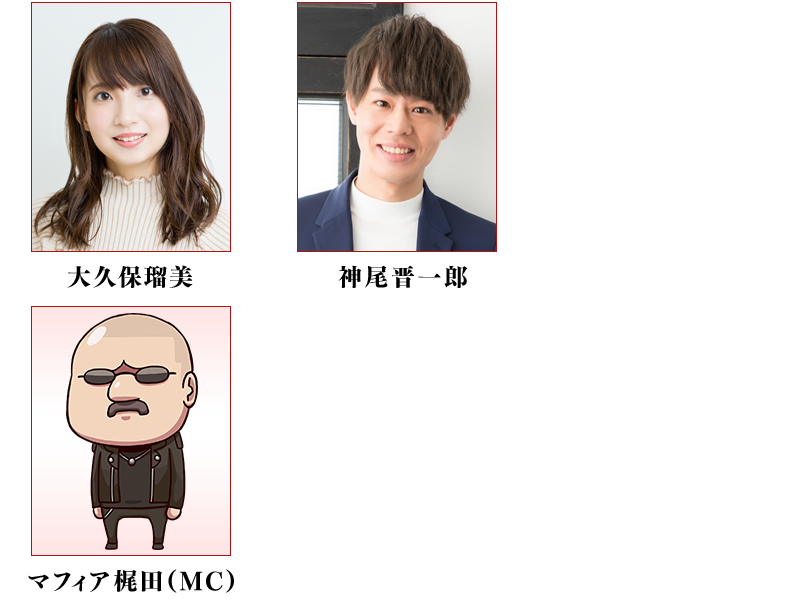
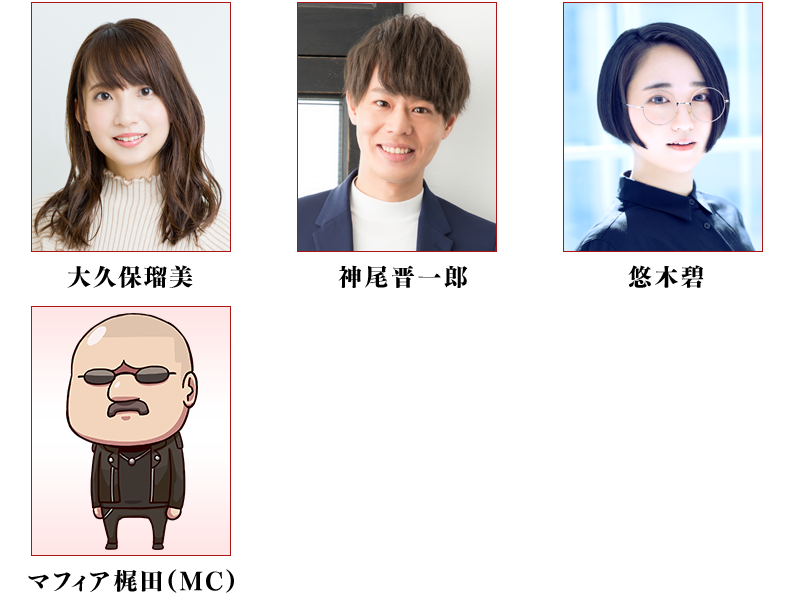
日版御主任務(5/30～6/5)

Changed region(s): [[0.6875, 0.0, 0.9688, 0.48]]

diff --git a/index.html b/index.html
@@ -69,23 +69,23 @@ $(function(){
 </p></dd></dl>
 
 <dl class="accordion"><dt class="act">
-<h1 class="headline5"><dl><dt class="date">★☆★</dt><dd>本週日版御主任務(5/16～5/22)<span class="arrowAC">&nbsp;</span></dd></dl></h1>
+<h1 class="headline5"><dl><dt class="date">★☆★</dt><dd>本週日版御主任務(5/30～6/5)<span class="arrowAC">&nbsp;</span></dd></dl></h1>
 </dt><dd class="acd"><p>
 <table class="tablesorter" style="width:95%">
 <tr><th>任務</th><th>獎勵</th></tr>
 <tr><td>No.1：通過所有本週的御主任務
 </td><td><div class="itemST" style="background-image: url('common/images/icon/items/16.png')" title="聖晶片">3</div></td></tr>
-<tr><td>No.2：擊倒3位持有『秩序』屬性的從者(在戰鬥中被召喚的敵人除外)
+<tr><td>No.2：擊倒10位從者(在戰鬥中被召喚的敵人除外)
 </td><td><div class="itemST" style="background-image: url('common/images/icon/items/16.png')" title="聖晶片">3</div></td></tr>
-<tr><td>No.3：擊倒3位持有『混沌』屬性的從者(在戰鬥中被召喚的敵人除外)
+<tr><td>No.3：擊倒任15名『Saber』『Caster』『Assassin』職階的敵人(在戰鬥中被召喚的敵人除外)
 </td><td><div class="itemST" style="background-image: url('common/images/icon/items/16.png')" title="聖晶片">3</div></td></tr>
-<tr><td>No.4：擊倒15名持有『猛獸』特性的敵人(在戰鬥中被召喚的敵人除外)
+<tr><td>No.4：擊倒任15名『Archer』『Rider』職階的敵人(在戰鬥中被召喚的敵人除外)
 </td><td><div class="itemST" style="background-image: url('common/images/icon/items/16.png')" title="聖晶片">3</div></td></tr>
-<tr><td>No.5：擊倒15名持有『魔性』特性的敵人(在戰鬥中被召喚的敵人除外)
+<tr><td>No.5：擊倒任15名『Lancer』『Berserker』職階的敵人(在戰鬥中被召喚的敵人除外)
 </td><td><div class="itemST" style="background-image: url('common/images/icon/items/16.png')" title="聖晶片">3</div></td></tr>
-<tr><td>No.6：靠戰利品獲得任15張「叡智的業火」「睿智的猛火」「睿智的大火」「睿智的燈火」「睿智的種火」
+<tr><td>No.6：靠戰利品獲得任2個「輝石」「魔石」「秘石」「銀像」「金棋」
 </td><td><div class="itemST" style="background-image: url('common/images/icon/items/16.png')" title="聖晶片">3</div></td></tr>
-<tr><td>No.7：靠戰利品獲得任30張「叡智的業火」「睿智的猛火」「睿智的大火」「睿智的燈火」「睿智的種火」
+<tr><td>No.7：靠戰利品獲得任4個「輝石」「魔石」「秘石」「銀像」「金棋」
 </td><td><div class="itemST" style="background-image: url('common/images/icon/items/16.png')" title="聖晶片">3</div></td></tr>
 </table>
 </p></dd></dl>
@@ -192,6 +192,10 @@ $(function(){
 <a href="gacha_2500man_pu2.html"><img src="common/images/banners/terminal/terminal_banner_80723.png" width=400 /></a>
 <div class="paragraph_details">
 <table class="noborder nopadding">
+<tr><td colspan=2>
+・<a href="news_220531.html">關於能用6月交換券(2022)交換的道具</a>
+</td><td colspan=2>
+</td></tr>
 <tr><td width=200>
 ・<a href="news_220510.html">5/11維修公告</a>(12:00實施)
 </td><td width=200>
@@ -263,6 +267,10 @@ $(function(){
 <a href="news_220420.html"><img src="common/images/banners/terminal/terminal_banner_80719.png" width=400 /></a>
 <div class="paragraph_details">
 <table class="noborder nopadding">
+<tr><td colspan=2>
+・<a href="news_220430.html">關於能用5月交換券(2022)交換的道具</a>
+</td><td colspan=2>
+</td></tr>
 <tr><td width=200>
 ・<a href="news_220419.html">4/20維修公告</a>(12:00實施)
 </td><td width=200>

diff --git a/news_220430.html b/news_220430.html
@@ -1,0 +1,61 @@
+<!DOCTYPE html PUBLIC "-//W3C//DTD XHTML 1.0 Transitional//EN" "http://www.w3.org/TR/xhtml1/DTD/xhtml1-transitional.dtd">
+<html xmlns="http://www.w3.org/1999/xhtml">
+<head>
+<meta http-equiv="Content-Type" content="text/html; charset=utf-8" />
+<meta name="description" content="Fate/Grand Order台灣中文資料站" />
+<meta name="keywords" content="Fate/Grand Order,FGO,Fate/GO,TYPE-MOON,Fate,Saber,Archer,Lancer,Rider,Caster,Assassin,Berserker,Shielder,Ruler" />
+<title>關於能用5月交換券(2022)交換的道具</title>
+<link rel="icon" href="favicon.ico" type="image/vnd.microsoft.icon">
+<link href="common/css/common.css" rel="stylesheet" type="text/css" />
+<link href="common/css/detail_info.css" rel="stylesheet" type="text/css" />
+<link href="common/css/sidebar.css" rel="stylesheet" type="text/css" />
+<script type="text/javascript" src="common/js/jquery.min.js"></script>
+<script type="text/javascript" src="common/js/sidebar.js"></script>
+<script type="text/javascript" src="common/js/smoothRollOver.js"></script>
+<script type="text/javascript" src="common/js/scrollTop.js"></script>
+<script>
+  (function(i,s,o,g,r,a,m){i['GoogleAnalyticsObject']=r;i[r]=i[r]||function(){
+  (i[r].q=i[r].q||[]).push(arguments)},i[r].l=1*new Date();a=s.createElement(o),
+  m=s.getElementsByTagName(o)[0];a.async=1;a.src=g;m.parentNode.insertBefore(a,m)
+  })(window,document,'script','//www.google-analytics.com/analytics.js','ga');
+
+  ga('create', 'UA-70142247-1', 'auto');
+  ga('require', 'linkid');
+  ga('require', 'displayfeatures');
+  ga('send', 'pageview');
+</script>
+</head>
+<body onload="loadsidebar();">
+<!--二欄橫幅主要區塊開始-->
+<div style='position:relative;'>
+    <!--選單區塊開始-->
+    <div id="div_right_sidebar"></div>
+    <!--選單區塊結束-->
+    <!--主要內容區塊開始-->
+    <div id="div_content"><div class="container">
+<article class="content textsize" style="width:840px">
+<h1 class="headline3"><dl><dt class="date">4/30</dt><dd>關於能用5月交換券(2022)交換的道具</dd></dl></h1>
+<p>告知關於能用連續登入獎勵的5月交換券(2022)交換的道具。</p>
+<p><span class="diamond">◆</span><span class="strong">5月交換券(2022)配發期間</span><span class="diamond">◆</span><br/>
+2022年5月1日(日) 3:00～2022年6月1日(三) 2:59</p>
+<p><span class="diamond">◆</span><span class="strong">5月交換券(2022)的使用・領取期間</span><span class="diamond">◆</span><br/>
+2022年8月31日(三) 22:59<br/>
+<span class="indent">※另外，請注意4月交換券(2022)的使用・領取期間為2022年7月31日(日) 22:59</span></p>
+<p><span class="diamond">◆</span><span class="strong">能交換道具</span><span class="diamond">◆</span><br/>
+・夢幻的鱗粉<br/>
+・禁斷書頁<br/>
+・宵泣之鐵樁</p>
+<p><img alt="交換券" height="300" src="common/images/2022/0430sfjt_qaol/info_image_01.png" width="800"/></p>
+<p><span class="indent">※請注意交換券有使用・領取期間。</span>
+<span class="indent">※能選擇的3種類素材每月替換。</span>
+<span class="indent">※如果持有數張相同月份的「交換券」，可以一起交換。</span>
+<span class="indent">※如果跨月自禮物箱領取前一個月的「交換券」，能獲得的素材會是「交換券」記載月份的對象素材。</span></p>
+</article>
+</div>
+<div id="gotop"><a href="#"><img src="common/images/btn_gotop_off.jpg" width="47" height="47" alt="返回頂端" /></a></div>
+    </div>
+    <!--主要內容區塊結束-->
+</div>
+<!--二欄橫幅主要區塊結束-->
+</body>
+</html>

diff --git a/news_220531.html b/news_220531.html
@@ -1,0 +1,61 @@
+<!DOCTYPE html PUBLIC "-//W3C//DTD XHTML 1.0 Transitional//EN" "http://www.w3.org/TR/xhtml1/DTD/xhtml1-transitional.dtd">
+<html xmlns="http://www.w3.org/1999/xhtml">
+<head>
+<meta http-equiv="Content-Type" content="text/html; charset=utf-8" />
+<meta name="description" content="Fate/Grand Order台灣中文資料站" />
+<meta name="keywords" content="Fate/Grand Order,FGO,Fate/GO,TYPE-MOON,Fate,Saber,Archer,Lancer,Rider,Caster,Assassin,Berserker,Shielder,Ruler" />
+<title>關於能用6月交換券(2022)交換的道具</title>
+<link rel="icon" href="favicon.ico" type="image/vnd.microsoft.icon">
+<link href="common/css/common.css" rel="stylesheet" type="text/css" />
+<link href="common/css/detail_info.css" rel="stylesheet" type="text/css" />
+<link href="common/css/sidebar.css" rel="stylesheet" type="text/css" />
+<script type="text/javascript" src="common/js/jquery.min.js"></script>
+<script type="text/javascript" src="common/js/sidebar.js"></script>
+<script type="text/javascript" src="common/js/smoothRollOver.js"></script>
+<script type="text/javascript" src="common/js/scrollTop.js"></script>
+<script>
+  (function(i,s,o,g,r,a,m){i['GoogleAnalyticsObject']=r;i[r]=i[r]||function(){
+  (i[r].q=i[r].q||[]).push(arguments)},i[r].l=1*new Date();a=s.createElement(o),
+  m=s.getElementsByTagName(o)[0];a.async=1;a.src=g;m.parentNode.insertBefore(a,m)
+  })(window,document,'script','//www.google-analytics.com/analytics.js','ga');
+
+  ga('create', 'UA-70142247-1', 'auto');
+  ga('require', 'linkid');
+  ga('require', 'displayfeatures');
+  ga('send', 'pageview');
+</script>
+</head>
+<body onload="loadsidebar();">
+<!--二欄橫幅主要區塊開始-->
+<div style='position:relative;'>
+    <!--選單區塊開始-->
+    <div id="div_right_sidebar"></div>
+    <!--選單區塊結束-->
+    <!--主要內容區塊開始-->
+    <div id="div_content"><div class="container">
+<article class="content textsize" style="width:840px">
+<h1 class="headline3"><dl><dt class="date">5/31</dt><dd>關於能用6月交換券(2022)交換的道具</dd></dl></h1>
+<p>告知關於能用連續登入獎勵的6月交換券(2022)交換的道具。</p>
+<p><span class="diamond">◆</span><span class="strong">6月交換券(2022)配發期間</span><span class="diamond">◆</span><br/>
+2022年6月1日(三) 3:00～2022年7月1日(五) 2:59</p>
+<p><span class="diamond">◆</span><span class="strong">6月交換券(2022)的使用・領取期間</span><span class="diamond">◆</span><br/>
+2022年9月30日(五) 22:59<br/>
+<span class="indent">※另外，請注意5月交換券(2022)的使用・領取期間為2022年8月31日(三) 22:59</span></p>
+<p><span class="diamond">◆</span><span class="strong">能交換道具</span><span class="diamond">◆</span><br/>
+・極光之鋼<br/>
+・大騎士勳章<br/>
+・龍之牙</p>
+<p><img alt="交換券" height="300" src="common/images/2022/0531ctfk_pltu/info_image_01.png" width="800"/></p>
+<p><span class="indent">※請注意交換券有使用・領取期間。</span>
+<span class="indent">※能選擇的3種類素材每月替換。</span>
+<span class="indent">※如果持有數張相同月份的「交換券」，可以一起交換。</span>
+<span class="indent">※如果跨月自禮物箱領取前一個月的「交換券」，能獲得的素材會是「交換券」記載月份的對象素材。</span></p>
+</article>
+</div>
+<div id="gotop"><a href="#"><img src="common/images/btn_gotop_off.jpg" width="47" height="47" alt="返回頂端" /></a></div>
+    </div>
+    <!--主要內容區塊結束-->
+</div>
+<!--二欄橫幅主要區塊結束-->
+</body>
+</html>

diff --git a/item_drop.html b/item_drop.html
@@ -53,45 +53,44 @@
 <table align="center" class="trbgcolor2" style="font-size:1em;margin-bottom: 10px;text-align:center;" width="600px;">
 <tbody>
 <tr>
-<th colspan="4">2022年4月交換券內容物</th>
+<th colspan="4">2022年6月交換券內容物</th>
 </tr>
 <tr>
-<th class="tb_col_dl" width="50%" colspan=2>日版</th><!-- 光銀之冠、隕蹄鐵、赦免的小鐘 -->
-<th class="tb_col_pink" width="50%" colspan=2>繁中版</th><!-- 巨人的指輪、人工生命體幼體、振盪火藥 -->
-<!-- 202003 -->
+<th class="tb_col_dl" width="50%" colspan=2>日版</th><!-- 極光之鋼、大騎士勳章、龍之牙 -->
+<th class="tb_col_pink" width="50%" colspan=2>繁中版</th><!-- 閑古鈴、鬼魂提燈、萬死的毒針 -->
 </tr>
 <tr style="font-size:0.85em;">
-<td>光銀之冠<br><img src="common/images/icon/items/6543.png" class="itemS"></td>
+<td>極光之鋼<br><img src="common/images/icon/items/6536.png" class="itemS"></td>
 <td>
-共需0/540/1359/25個
+共需95/1173/1878/50個
 </td>
-<td>巨人的指輪<br><img src="common/images/icon/items/6537.png" class="itemS"></td>
+<td>閑古鈴<br><img src="common/images/icon/items/6538.png" class="itemS"></td>
 <td>
-共需45/939/1401/35個
-</td>
-</tr>
-<tr style="font-size:0.85em;">
-<td>隕蹄鐵<br><img src="common/images/icon/items/6513.png" class="itemS"></td>
-<td>
-共需283/1515/777/15個
-</td>
-<td>人工生命體幼體<br><img src="common/images/icon/items/6514.png" class="itemS"></td>
-<td>
-共需200/1560/771/15個
+共需35/981/1572/40個
 </td>
 </tr>
 <tr style="font-size:0.85em;">
-<td>赦免的小鐘<br><img src="common/images/icon/items/6549.png" class="itemS"></td>
+<td>大騎士勳章<br><img src="common/images/icon/items/6524.png" class="itemS"></td>
 <td>
-共需0/441/4059/5個
+共需348/1584/1401/35個
 </td>
-<td>振盪火藥<br><img src="common/images/icon/items/6534.png" class="itemS"></td>
+<td>鬼魂提燈<br><img src="common/images/icon/items/6508.png" class="itemS"></td>
 <td>
-共需136/2277/3309/40個
+共需334/1998/621/20個
 </td>
 </tr>
 <tr style="font-size:0.85em;">
-<td colspan=4>※以上數量是以2022/03/31日版目前從者計算
+<td>龍之牙<br><img src="common/images/icon/items/6512.png" class="itemS"></td>
+<td>
+共需643/4122/1149/100個
+</td>
+<td>萬死的毒針<br><img src="common/images/icon/items/6527.png" class="itemS"></td>
+<td>
+共需221/1911/1482/50個
+</td>
+</tr>
+<tr style="font-size:0.85em;">
+<td colspan=4>※以上數量是以2022/05/31日版目前從者計算
 <br>分別為靈基再臨/保有技能強化/附加技能強化/靈衣開放
 </td>
 </tr>

diff --git a/news_220525.html b/news_220525.html
@@ -70,10 +70,12 @@
 <a href="https://twitter.com/fgoproject" target="_blank">https://twitter.com/fgoproject</a>
 </p>
 <p>
+【5月30日(一) 17:00追記】<br/>
 <span class="diamond">◆</span><span class="strong">出演者</span><span class="diamond">◆</span><br/>
 ・聲優<br/>
 大久保瑠美<br/>
 神尾晋一郎<br/>
+悠木碧<br/>
 ※50音順<br/>
 <br/>
 ・MC<br/>
